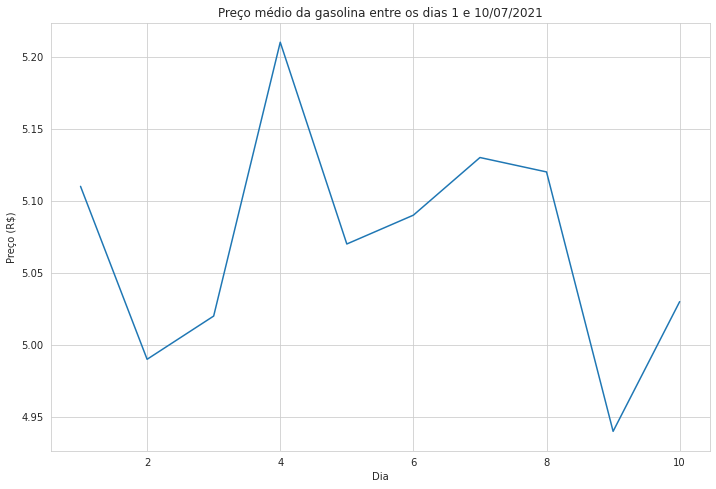
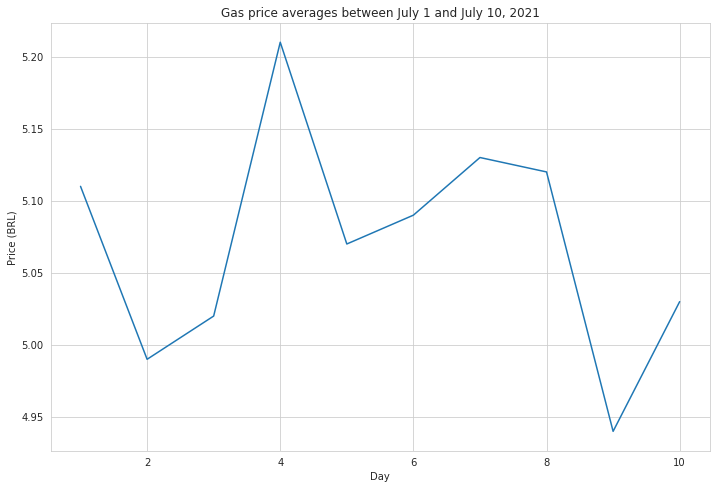
arquivos gasolina.py e gasolina.png alterados em develop

Changed region(s): [[0.3073, 0.0, 0.7682, 0.0613], [0.0, 0.4294, 0.0307, 0.5521], [0.5223, 0.9509, 0.5531, 0.9816]]

diff --git a/gasolina.py b/gasolina.py
@@ -10,10 +10,8 @@ gasolina_df = pd.read_csv('gasolina.csv', delimiter=',')
 # Criação do gráfico de linha
 with sns.axes_style('whitegrid'):
   grafico = sns.lineplot(data=gasolina_df, x='dia', y='venda', palette='dark')
-  grafico.set(title='Preço médio da gasolina entre os dias 1 e 10/07/2021', xlabel='Dia', ylabel='Preço (R$)')
+  grafico.set(title='Gas price averages between July 1 and July 10, 2021', xlabel='Day', ylabel='Price (BRL)')
   grafico.figure.set_size_inches(w=30/2.54, h=20/2.54)
 
 # Salvando o gráfico em PNG
 grafico.figure.savefig(fname='gasolina.png', bbox_inches='tight')
-
-print('Hello, Nick!')
